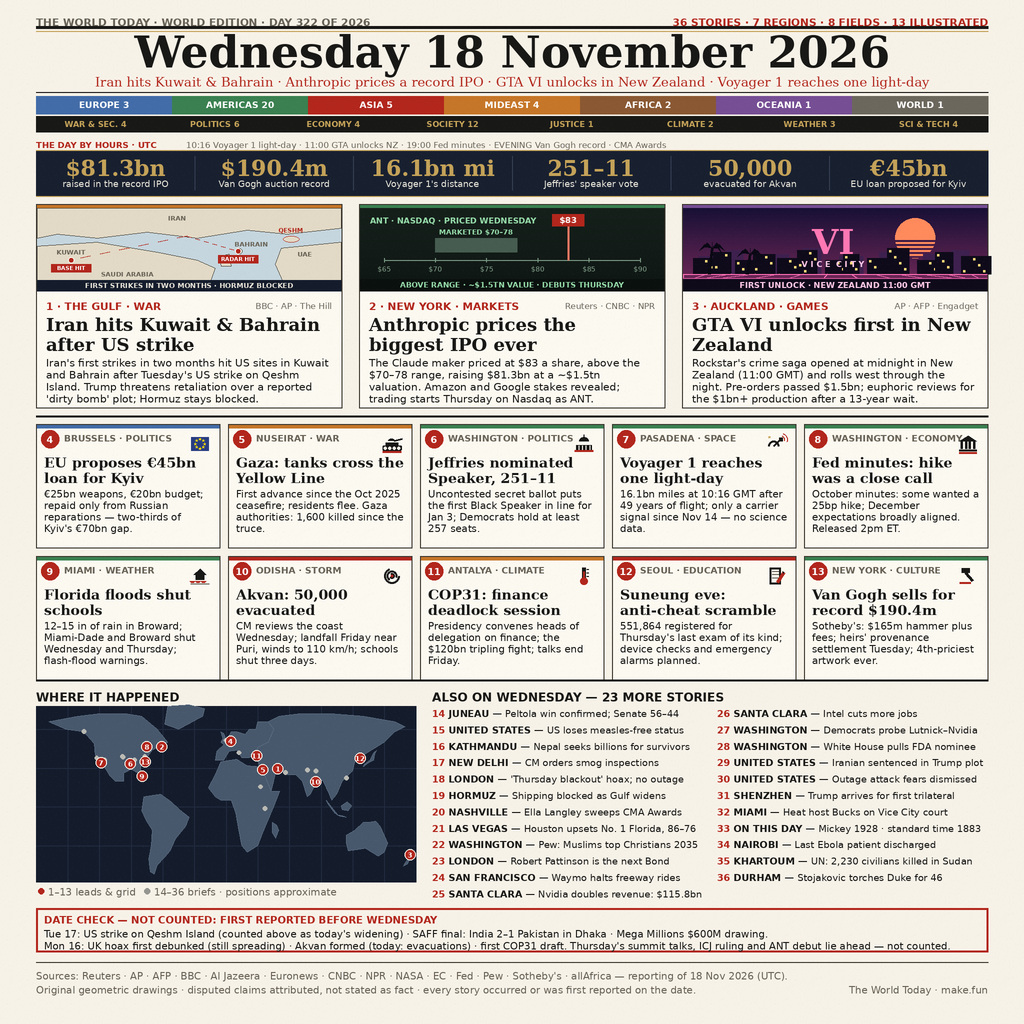
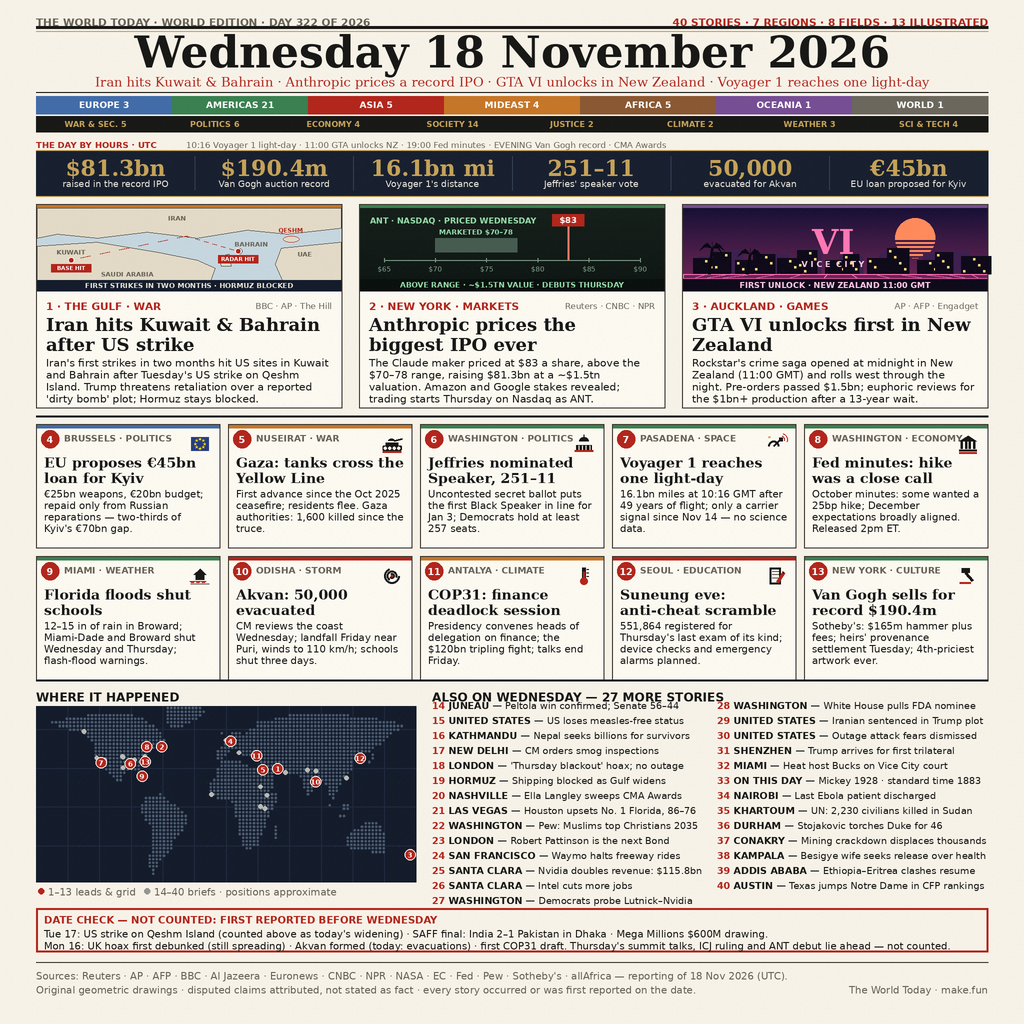
v3: 40 stories (Guinea, Besigye, Ethiopia-Eritrea, CFP), halftone dot-matrix locator map, 27-brief layout

Changed region(s): [[0.0625, 0.6875, 0.9688, 0.9062], [0.125, 0.7812, 0.1875, 0.8438], [0.3438, 0.7812, 0.375, 0.8438]]

diff --git a/tools/make_image.py b/tools/make_image.py
@@ -1,10 +1,10 @@
 #!/usr/bin/env python3
 """Render the entry image: a one-page broadsheet for Wednesday 18 November 2026.
 
-36 stories, every one occurring or first reported on the date: 3 illustrated
-leads (one an annotated evidence map), 10 numbered grid stories, 23 numbered
+40 stories, every one occurring or first reported on the date: 3 illustrated
+leads (one an annotated evidence map), 10 numbered grid stories, 27 numbered
 briefs. Dual region/field tallies, a UTC day-by-hours ticker, a navy-gold
-key-figures band, a locator map and a DATE CHECK box. Original geometric
+key-figures band, a halftone locator map and a DATE CHECK box. Original geometric
 artwork drawn with Pillow — no photographs, no third-party art. Facts as
 reported on 18 Nov 2026 (UTC) by Reuters, AP, AFP, BBC, Al Jazeera, Euronews,
 CNBC, NPR, NASA, the European Commission, the Fed, Pew, Sotheby's, allAfrica
@@ -392,6 +392,10 @@ BRIEFS = [
     dict(n=34, region="AFRICA", city="NAIROBI", text="Last Ebola patient discharged", lat=-1.3, lon=36.8),
     dict(n=35, region="AFRICA", city="KHARTOUM", text="UN: 2,230 civilians killed in Sudan", lat=15.6, lon=32.5),
     dict(n=36, region="AMERICAS", city="DURHAM", text="Stojakovic torches Duke for 46", lat=36.0, lon=-78.9),
+    dict(n=37, region="AFRICA", city="CONAKRY", text="Mining crackdown displaces thousands", lat=9.6, lon=-13.6),
+    dict(n=38, region="AFRICA", city="KAMPALA", text="Besigye wife seeks release over health", lat=0.3, lon=32.6),
+    dict(n=39, region="AFRICA", city="ADDIS ABABA", text="Ethiopia–Eritrea clashes resume", lat=9.0, lon=38.7),
+    dict(n=40, region="AMERICAS", city="AUSTIN", text="Texas jumps Notre Dame in CFP rankings", lat=30.3, lon=-97.7),
 ]
 
 STATS = [
@@ -416,6 +420,7 @@ FIELD_OF = {
     28: "POLITICS & DIPLOMACY", 29: "JUSTICE", 30: "SCIENCE & TECH",
     31: "POLITICS & DIPLOMACY", 32: "SOCIETY & CULTURE", 33: "SOCIETY & CULTURE",
     34: "SOCIETY & CULTURE", 35: "WAR & SECURITY", 36: "SOCIETY & CULTURE",
+    37: "SOCIETY & CULTURE", 38: "JUSTICE", 39: "WAR & SECURITY", 40: "SOCIETY & CULTURE",
 }
 
 CONTINENTS = [
@@ -463,7 +468,33 @@ def draw_map(d, x, y, w, h):
         a, b = proj(lon0, glat), proj(lon1, glat)
         d.line([T(*a), T(*b)], fill=(32, 42, 62), width=S)
     for poly in CONTINENTS:
-        d.polygon([T(*proj(lon, lat)) for lon, lat in poly], fill=LAND, outline=LAND_EDGE)
+        pass  # continents rendered as a halftone dot matrix below
+
+    def inside(lon, lat, poly):
+        ins = False
+        n = len(poly)
+        for i in range(n):
+            x1, y1 = poly[i]
+            x2, y2 = poly[(i + 1) % n]
+            if (y1 > lat) != (y2 > lat):
+                xin = x1 + (lat - y1) * (x2 - x1) / (y2 - y1)
+                if lon < xin:
+                    ins = not ins
+        return ins
+
+    step = 3.6
+    gy = y + 2.0
+    while gy < y + h - 1:
+        gx = x + 2.0
+        while gx < x + w - 1:
+            lon = lon0 + (gx - x) / w * (lon1 - lon0)
+            lat = lat0 - (gy - y) / h * (lat0 - lat1)
+            for poly in CONTINENTS:
+                if inside(lon, lat, poly):
+                    d.ellipse(R(gx - 1.05, gy - 1.05, gx + 1.05, gy + 1.05), fill=LAND)
+                    break
+            gx += step
+        gy += step
     for s in BRIEFS:
         px, py = proj(s["lon"], s["lat"])
         d.ellipse(R(px - 2.2, py - 2.2, px + 2.2, py + 2.2), fill=(186, 186, 180))
@@ -511,12 +542,12 @@ def grain(img):
 
 def main():
     all_stories = LEADS + GRID + BRIEFS
-    assert len(all_stories) == 36, f"story count {len(all_stories)} != 36"
-    assert [s["n"] for s in all_stories] == list(range(1, 37))
+    assert len(all_stories) == 40, f"story count {len(all_stories)} != 40"
+    assert [s["n"] for s in all_stories] == list(range(1, 41))
     tally = {}
     for s in all_stories:
         tally[s["region"]] = tally.get(s["region"], 0) + 1
-    assert sum(tally.values()) == 36
+    assert sum(tally.values()) == 40
 
     img = Image.new("RGB", (W * S, H * S), PAPER)
     d = ImageDraw.Draw(img)
@@ -546,7 +577,7 @@ def main():
 
     # ── running head + nameplate date ──
     d.text(T(M, 16), "THE WORLD TODAY · WORLD EDITION · DAY 322 OF 2026", font=f_run, fill=GRAY)
-    d.text(T(W - M, 16), "36 STORIES · 7 REGIONS · 8 FIELDS · 13 ILLUSTRATED", font=f_run, fill=RED, anchor="ra")
+    d.text(T(W - M, 16), "40 STORIES · 7 REGIONS · 8 FIELDS · 13 ILLUSTRATED", font=f_run, fill=RED, anchor="ra")
     d.line([T(M, 27), T(W - M, 27)], fill=INK, width=3 * S)
     d.line([T(M, 31), T(W - M, 31)], fill=GOLD, width=S)
     d.text(T(W / 2, 52), "Wednesday 18 November 2026", font=f_date, fill=INK, anchor="mm")
@@ -572,7 +603,7 @@ def main():
     for s in all_stories:
         f = FIELD_OF[s["n"]]
         ftally[f] = ftally.get(f, 0) + 1
-    assert sum(ftally.values()) == 36 and len(ftally) == 8
+    assert sum(ftally.values()) == 40 and len(ftally) == 8
     d.rectangle(R(M, 116, W - M, 132), fill=INK)
     fshort = {"WAR & SECURITY": "WAR & SEC.", "POLITICS & DIPLOMACY": "POLITICS",
               "ECONOMY & LABOUR": "ECONOMY", "SOCIETY & CULTURE": "SOCIETY",
@@ -644,15 +675,15 @@ def main():
     d.ellipse(R(M + 2, 888, M + 8, 894), fill=RED)
     d.text(T(M + 12, 886), "1–13 leads & grid", font=f_foot, fill=GRAY)
     d.ellipse(R(M + 108, 888, M + 114, 894), fill=(150, 150, 145))
-    d.text(T(M + 118, 886), "14–36 briefs · positions approximate", font=f_foot, fill=GRAY)
+    d.text(T(M + 118, 886), "14–40 briefs · positions approximate", font=f_foot, fill=GRAY)
 
     bx0 = M + 396
-    d.text(T(bx0, 690), "ALSO ON WEDNESDAY — 23 MORE STORIES", font=f_sec, fill=INK)
+    d.text(T(bx0, 690), "ALSO ON WEDNESDAY — 27 MORE STORIES", font=f_sec, fill=INK)
     colw = (W - M - bx0 - 14) / 2
     for i, s in enumerate(BRIEFS):
-        col, row = divmod(i, 12)
+        col, row = divmod(i, 14)
         x = bx0 + col * (colw + 14)
-        y = 708 + row * 16.4
+        y = 700 + row * 15.0
         num = str(s["n"])
         d.text(T(x, y), num, font=f_briefb, fill=RED)
         nx = x + d.textlength(num + " ", font=f_briefb) / S

diff --git a/README.md b/README.md
@@ -9,13 +9,13 @@ Entry for make.fun's bounty **"Sum up 18 November's world news in one image"**
 
 `main.py` (Python 3.13, standard library only) checks the bounty's output caps
 and copies `entry.png` to `/output/entry.png`. The image is a 1024×1024
-broadsheet-style front page carrying **36 stories, every one occurring or first
+broadsheet-style front page carrying **40 stories, every one occurring or first
 reported on Wednesday 18 November 2026 (UTC)**: 3 illustrated leads (the Gulf
-strikes drawn as an annotated evidence map), 10 numbered grid stories and 23
+strikes drawn as an annotated evidence map), 10 numbered grid stories and 27
 numbered briefs, with dual region/field tally bars, a UTC day-by-hours ticker,
-a navy-and-gold key-figures band, a "Where it happened" locator map and a DATE
-CHECK box reasoning about earlier-week items and the Thursday events that lie
-ahead. All artwork is original geometric drawing rendered by
+a navy-and-gold key-figures band, a halftone "Where it happened" locator map
+and a DATE CHECK box reasoning about earlier-week items and the Thursday
+events that lie ahead. All artwork is original geometric drawing rendered by
 `tools/make_image.py` (Pillow) at 2× with gradient skies and a deterministic
 paper grain, downsampled with Lanczos; no photographs or third-party art.
 
@@ -29,7 +29,7 @@ paper grain, downsampled with Lanczos; no photographs or third-party art.
   school closures; Cyclone Akvan's 50,000 evacuations; COP31's finance
   deadlock session; Suneung eve's anti-cheat scramble; Van Gogh's record
   $190.4m auction.
-- **Briefs (14–36):** Peltola's Alaska win confirmed (Senate 56–44), the US
+- **Briefs (14–40):** Peltola's Alaska win confirmed (Senate 56–44), the US
   losing measles-free status, Nepal's disaster appeal, Delhi smog inspections,
   London's blackout hoax, Hormuz, Ella Langley's CMA sweep, Houston upsetting
   No. 1 Florida, Pew's religion projections, Robert Pattinson as Bond, Waymo's
@@ -37,7 +37,9 @@ paper grain, downsampled with Lanczos; no photographs or third-party art.
   probe, a pulled FDA nominee, an Iranian agent sentenced, outage fears
   dismissed, Trump's Shenzhen arrival, the Heat's Vice City court, on-this-day
   history, Kenya's last Ebola patient discharged, the UN's Sudan civilian
-  toll, and Stojakovic's 46 against Duke.
+  toll, Stojakovic's 46 against Duke, Guinea's mining-crackdown displacement,
+  Besigye's health fears, renewed Ethiopia–Eritrea clashes, and Texas jumping
+  Notre Dame in the CFP rankings.
 
 Facts as reported on 18 Nov 2026 by Reuters, AP, AFP, BBC, Al Jazeera,
 Euronews, CNBC, NPR, NASA, the European Commission, the Fed, Pew Research,
